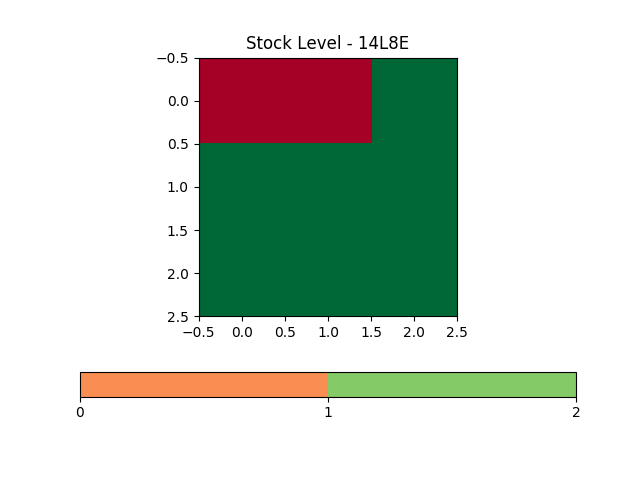
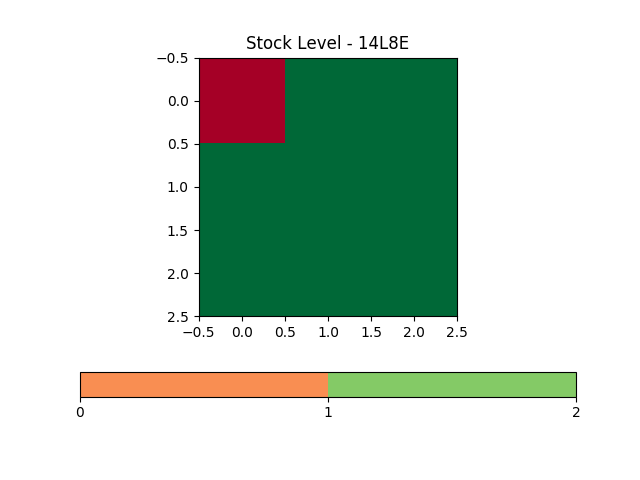
resolved api call issue

Changed region(s): [[0.4375, 0.125, 0.5938, 0.3125]]

diff --git a/Python/WebPage/API.py b/Python/WebPage/API.py
@@ -3,6 +3,7 @@ import Objects.shelf as ShelfObject
 import Calculations.stockPercentage as stockpercentages
 import Measurements.MeasureUS as measureUS
 import Graphing.Heatmap as heatmap
+import Objects.product as ProductObject
 
 
 def startfunction():
@@ -13,11 +14,12 @@ def startfunction():
     
     class Departmental_Salary(Resource):
         def get(self):
+            ProductList = ProductObject.makeProductGrid()
             XYGridList = XYGridObject.MakeXYGrid()
             ShelfList = ShelfObject.makeShelfGrid()
             for singleshelf in ShelfList:
                 measureUS.MeasureDistance(singleshelf, XYGridList) 
-                stockpercentages.UnitsToFill(singleshelf, XYGridList)
+                stockpercentages.UnitsToFill(singleshelf, ProductList, XYGridList)
                 heatmap.MakeHeatMap(singleshelf.height, XYGridList, singleshelf.location)
             print("XYGrid=")
             for XYGrid in XYGridList:
